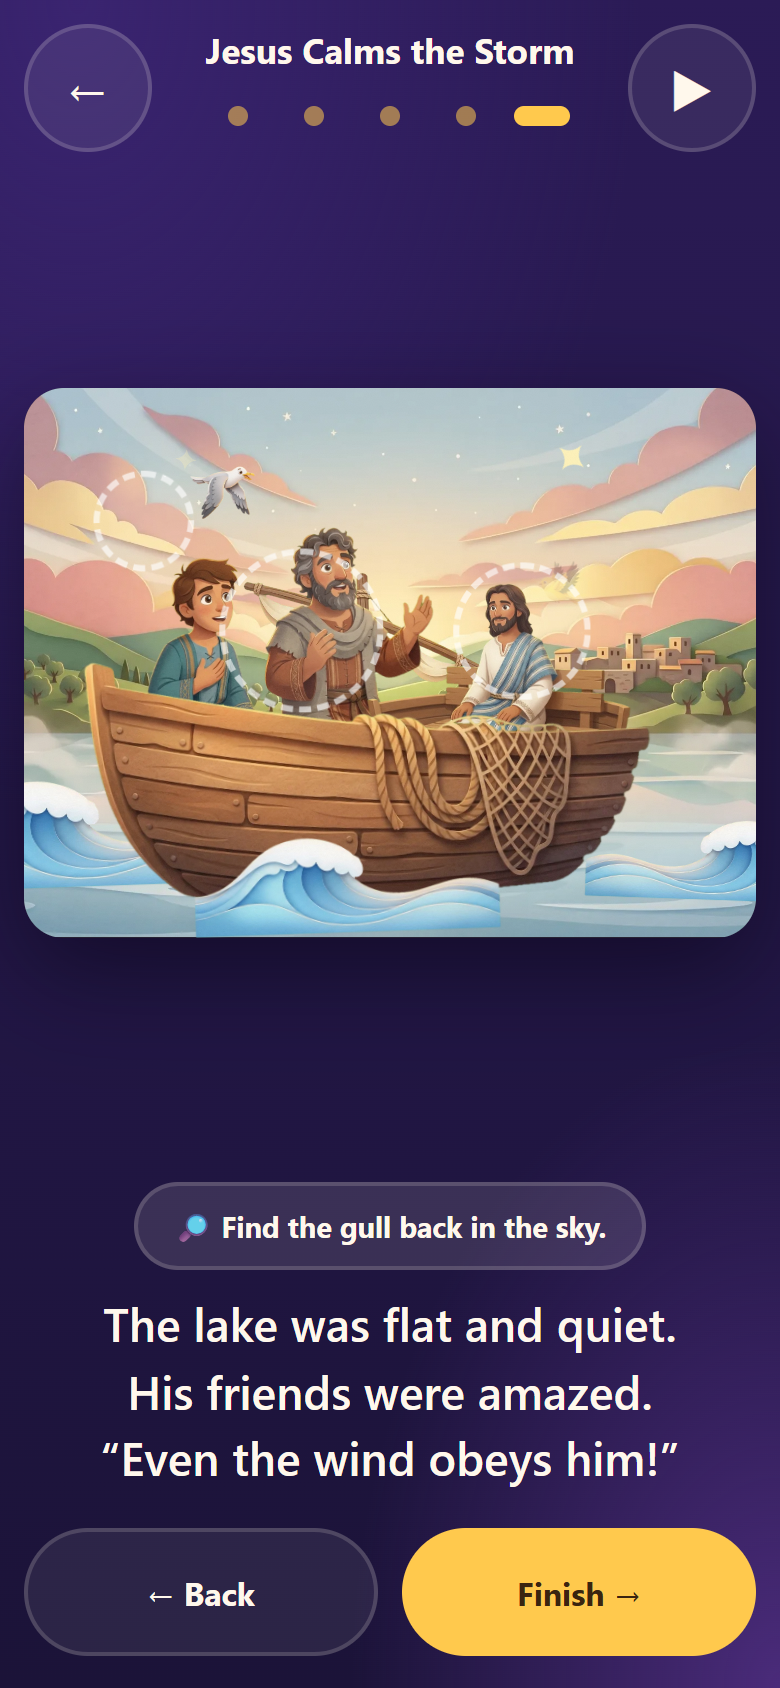
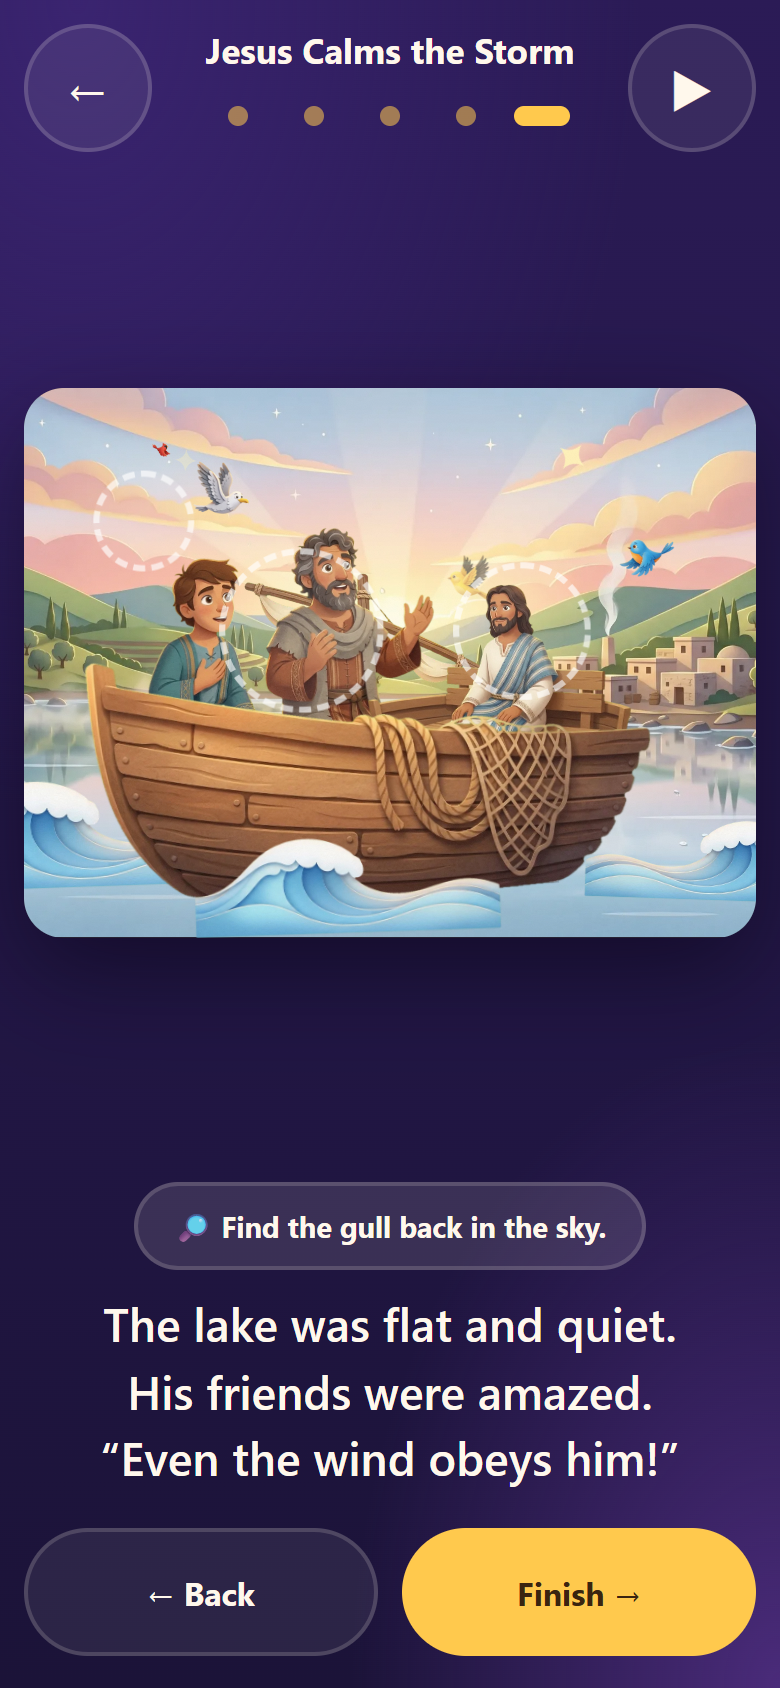
Storm page 5: realistic detailed dawn background, birds arriving from behind the boat toward the men
The calm page's background is regenerated with a painterly-realism
brief: mirror reflections, mist, terraced hills, a limestone village
with a jetty and rays through the mist. A new swoop-far path starts a
bird as a speck over the far hills behind the boat and flies it out
toward the figures, growing as it comes; the red bird and goldfinch
ride it, a bluebird arrives from the right, and the gull and a second
bluebird cross.

Changed region(s): [[0.0308, 0.2156, 0.9846, 0.4929], [0.6154, 0.4929, 0.9538, 0.5545], [0.0308, 0.5237, 0.2462, 0.5545]]

diff --git a/src/scenes/storm.tsx b/src/scenes/storm.tsx
@@ -613,9 +613,10 @@ export function WhoIsThis({ found }: SceneArtProps) {
       <Backdrop src={calmBg} />
       <Gull x={220} y={150} s={0.2} delay={-9} flip />
       <SongBird kind="blue" x={560} y={88} s={0.2} motion="a-fly" delay={-15} />
-      {/* two birds come in from far off toward the boat, one from each side */}
-      <SongBird kind="red" x={245} y={188} s={0.24} motion="a-swoop-l" delay={-3} />
-      <SongBird kind="gold" x={730} y={195} s={0.22} motion="a-swoop-r" delay={-10} flip />
+      {/* birds arrive toward the men: two from specks over the far hills behind the boat, one from the right */}
+      <SongBird kind="red" x={250} y={198} s={0.24} motion="a-swoop-far" delay={-3} />
+      <SongBird kind="gold" x={585} y={200} s={0.22} motion="a-swoop-far" delay={-11} flip />
+      <SongBird kind="blue" x={760} y={190} s={0.2} motion="a-swoop-r" delay={-7} flip />
       <Ripple x={160} y={580} scale={0.56} delay={0} />
       <Ripple x={860} y={592} scale={0.42} delay={0} flip />
       <g className="a-heave-slow">

diff --git a/src/styles/motion.css b/src/styles/motion.css
@@ -428,6 +428,31 @@ svg [class*=" a-"] {
     transform: translate(360px, -150px) scale(0.3);
   }
 }
+@keyframes swoop-far {
+  0% {
+    opacity: 0;
+    transform: translate(40px, -150px) scale(0.1);
+  }
+  10% {
+    opacity: 1;
+  }
+  70% {
+    opacity: 1;
+    transform: translate(0, 0) scale(1);
+  }
+  84% {
+    opacity: 0;
+    transform: translate(-30px, 26px) scale(1.12);
+  }
+  100% {
+    opacity: 0;
+    transform: translate(40px, -150px) scale(0.1);
+  }
+}
+/* A bird that starts as a speck over the far hills behind the figures and flies out toward them, growing as it comes. */
+.a-swoop-far {
+  animation: swoop-far 16s ease-in infinite;
+}
 /* A bird arriving from far off toward the figures, growing as it comes, then passing behind them. Rests at full size in Calm mode. */
 .a-swoop-l {
   animation: swoop-l 15s ease-in-out infinite;

diff --git a/docs/evidence/2026-09-18-storm-story/record.md b/docs/evidence/2026-09-18-storm-story/record.md
@@ -253,3 +253,23 @@ through, some flying towards Jesus and the disciples."
   size at its arrival point.
 
 Render `storm-calm.png` and the stills replaced. Calls: 1.
+
+## Review round 7 (owner, 2026-09-19): page 5 again
+
+"Background more realistic and detailed; some birds flying towards Jesus
+and the disciples from behind."
+
+- Background regenerated with a painterly-realism brief: mirror
+  reflections, fine ripples, mist, terraced hills with olive groves and
+  cypress, a limestone village with a jetty and a smoke column, rays
+  through the mist, no foreground objects (`calm-bg-v3.json`, 64 KB).
+  Scene 306 KB.
+- New path `swoop-far` in `motion.css`: the bird starts as a speck over
+  the far hills behind the boat (scale 0.1, above and slightly right of
+  its rest point), flies out toward the men growing to full size, passes
+  on and fades, then repeats. The red bird and the goldfinch ride it, drawn
+  behind the boat group so they arrive from behind the figures; a
+  bluebird still arrives from the right on `swoop-r`; another bluebird and
+  the gull cross on `fly`. Rest points sit beside the heads, not on them.
+
+Render `storm-calm.png` and the stills replaced. Calls: 1.
